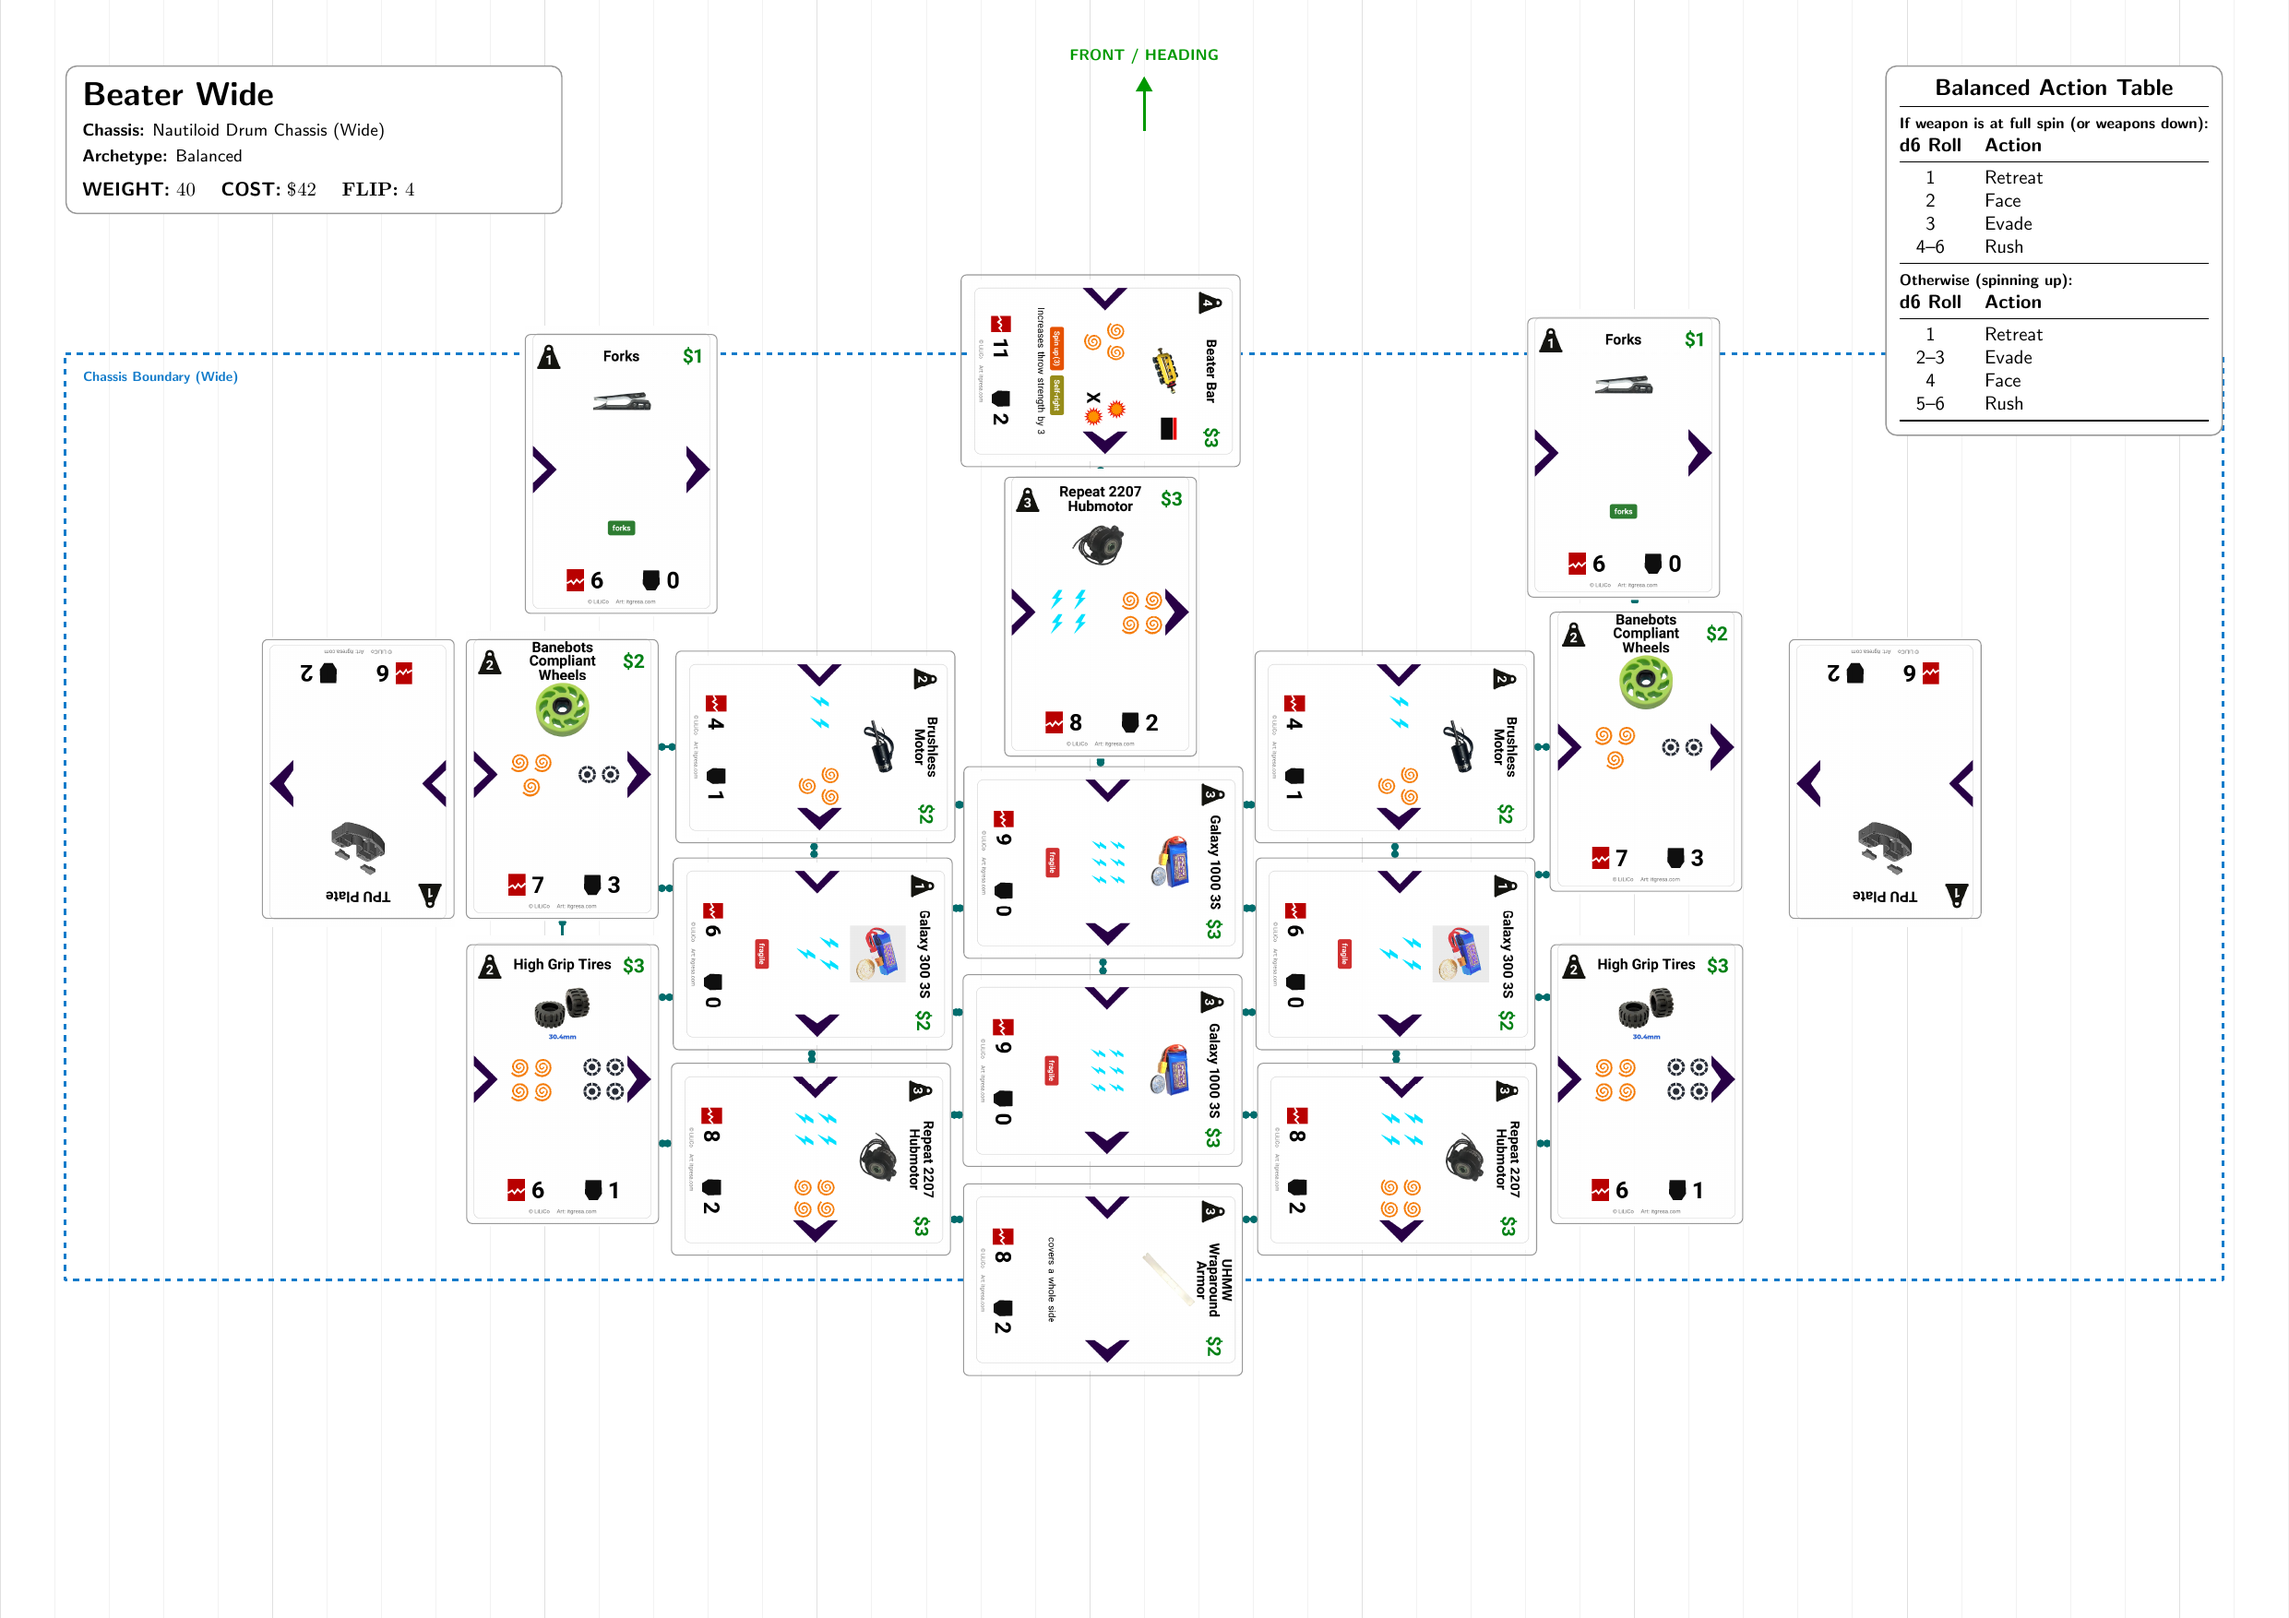
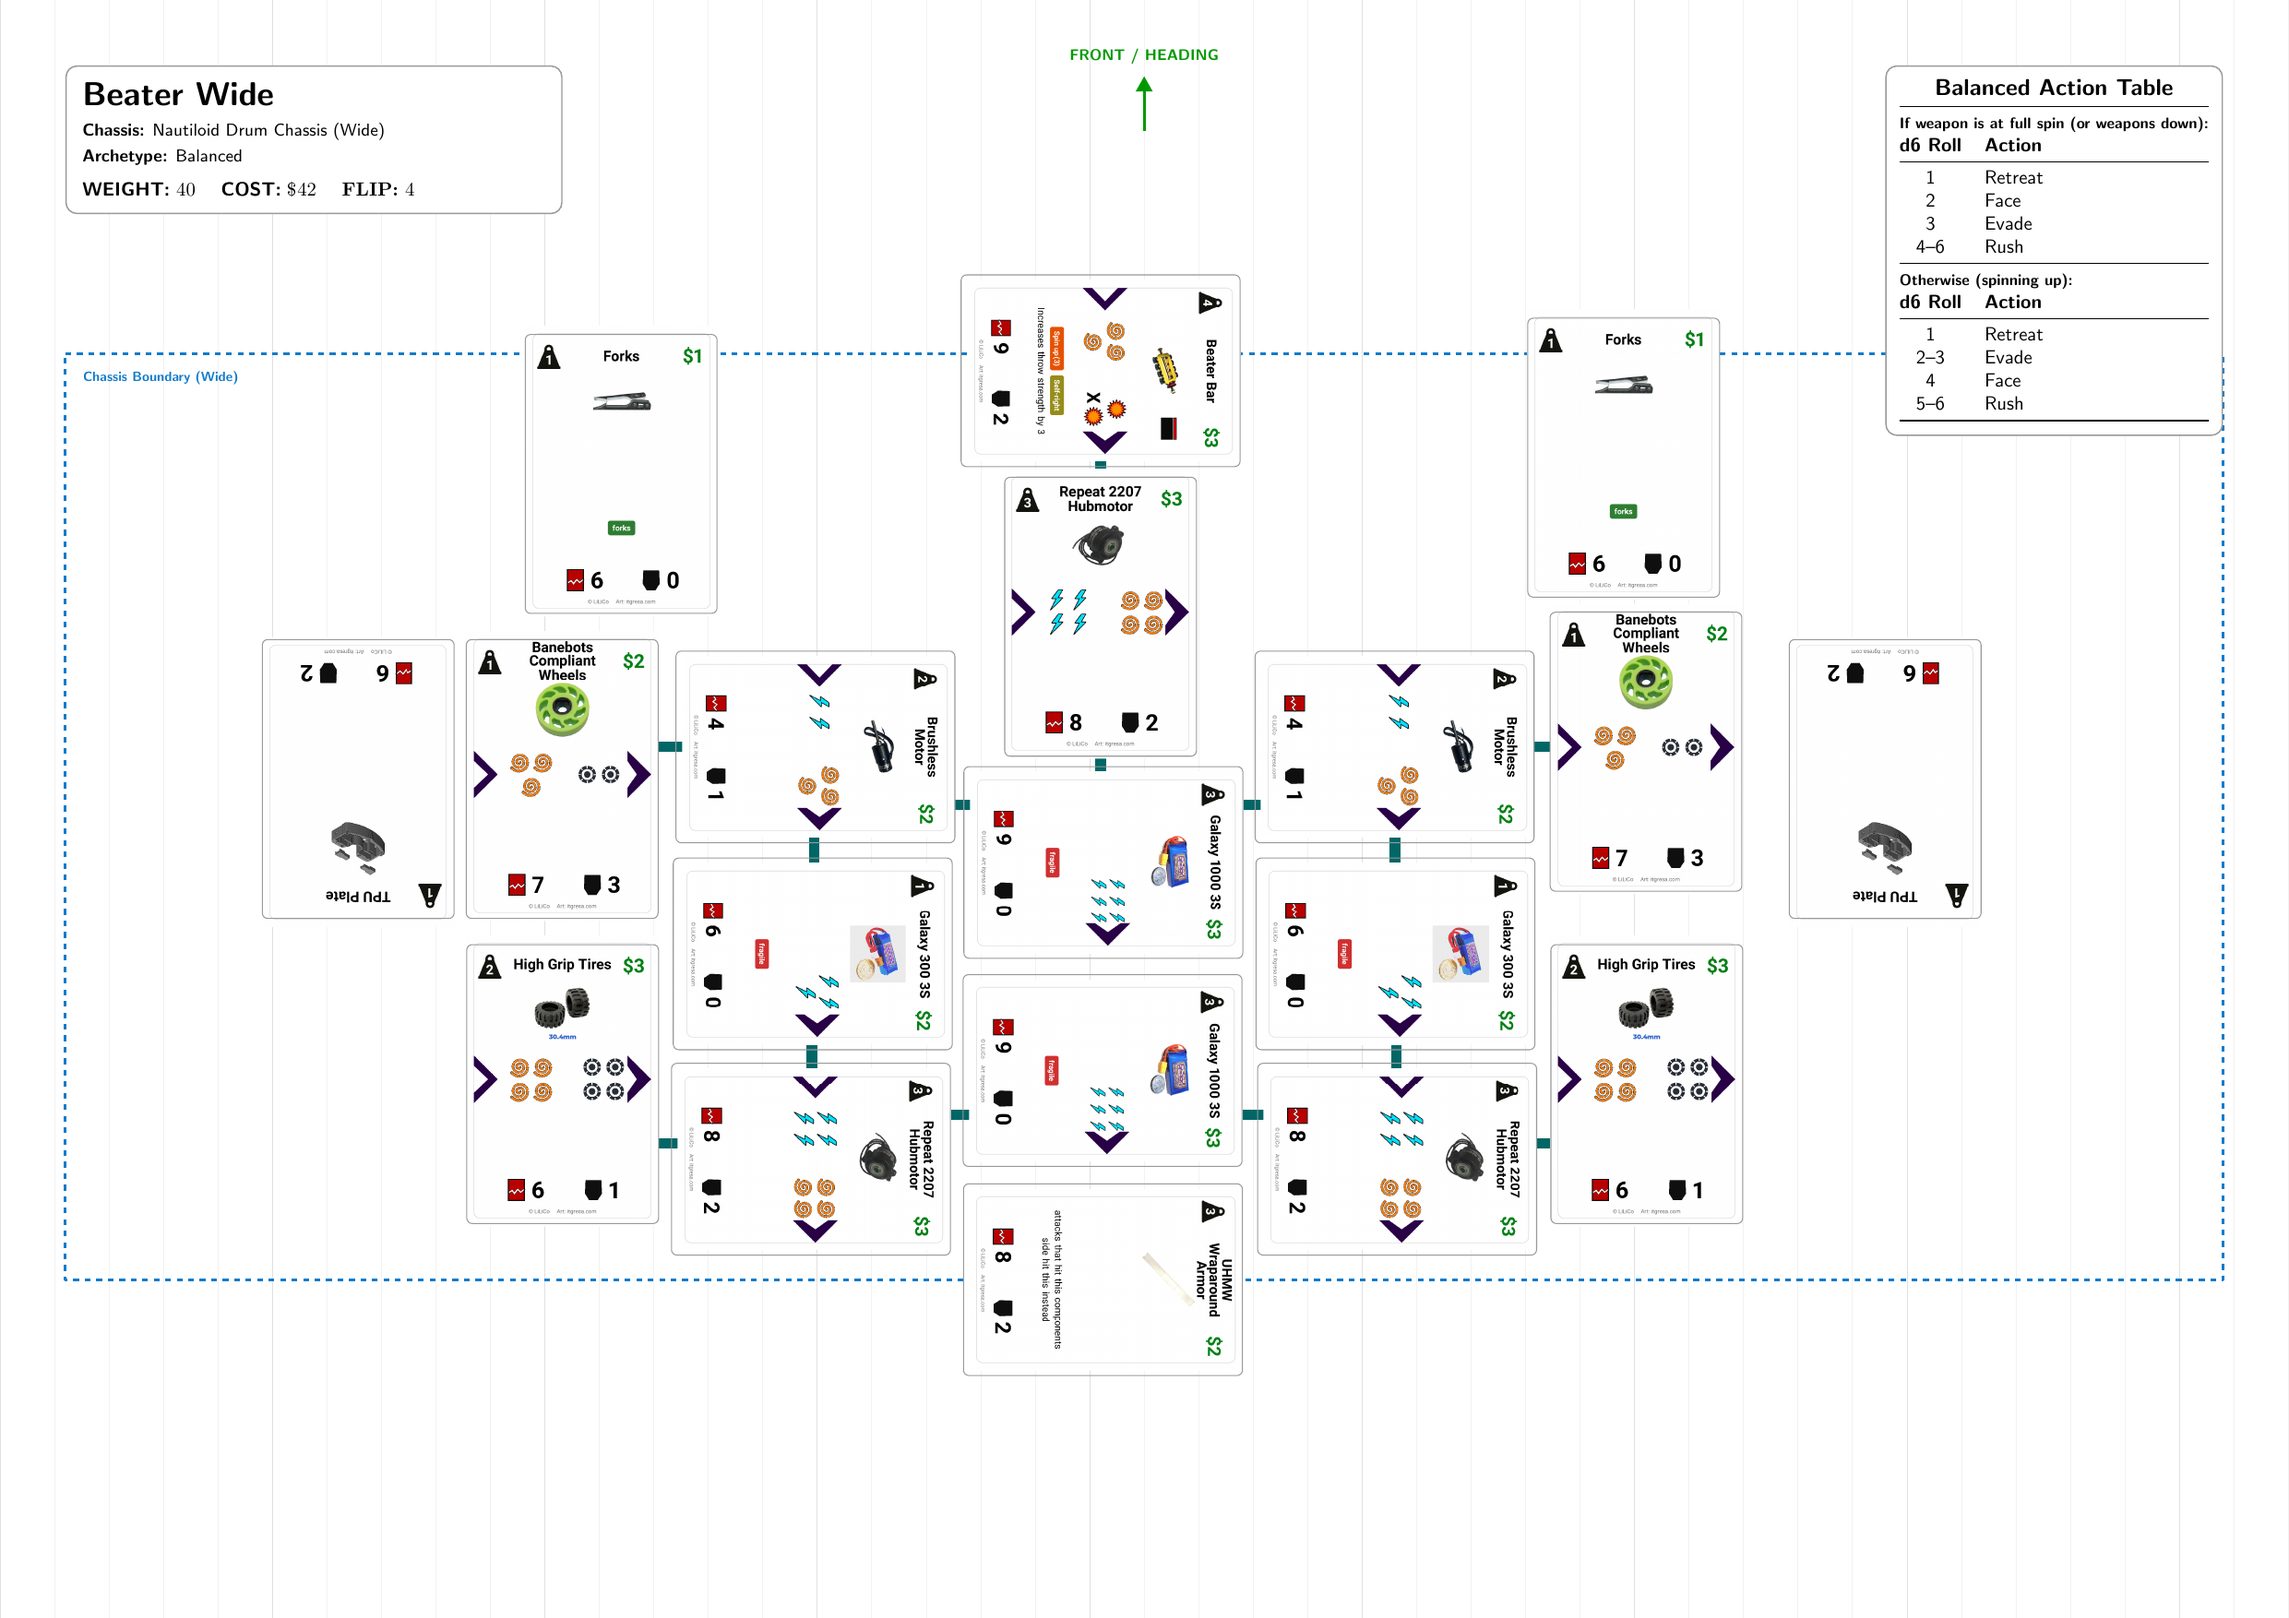
Update automata sheet connection lines to thick continuous lines between supplying components

diff --git a/tests/test_automata_sheets.py b/tests/test_automata_sheets.py
@@ -20,6 +20,7 @@ sys.path.insert(0, str(WORKSPACE_DIR))
 from scripts.generate_automata_sheets import (
     AUTOMATA_DIR,
     compile_latex_to_pdf,
+    components_supply_each_other,
     compute_connection_segment,
     extract_connected_pairs,
     generate_action_table_tex,
@@ -108,23 +109,47 @@ class TestAutomataSheets(unittest.TestCase):
                 self.assertLessEqual(b["cy"] + b["h"] / 2.0, 297.0)
 
     def test_connection_lines_generated(self):
-        """Verifies connected pairs are extracted and segments computed."""
+        """Verifies connected pairs are strictly supply links and styled as continuous thick lines."""
+        # 1. Component supply logic unit checks
+        batt = {"card": "Galaxy 120", "card_data": {"outputs": "EE", "requirements": ""}}
+        motor = {"card": "Brushless Motor", "card_data": {"outputs": "SSS", "requirements": "EE"}}
+        wheel = {"card": "Snap Wheels", "card_data": {"outputs": "D", "requirements": "SS"}}
+        armor = {"card": "TPU Plate", "card_data": {"outputs": "", "requirements": ""}}
+        servo = {"card": "20kg Metal Gear Servo", "card_data": {"outputs": "PPPP", "requirements": "EEE"}}
+        lifter = {"card": "Four-Bar Lifter", "card_data": {"outputs": "WWWWWW", "requirements": "PPPP"}}
+
+        self.assertTrue(components_supply_each_other(batt, motor))
+        self.assertTrue(components_supply_each_other(motor, wheel))
+        self.assertTrue(components_supply_each_other(servo, lifter))
+        self.assertFalse(components_supply_each_other(armor, wheel))
+        self.assertFalse(components_supply_each_other(armor, batt))
+        self.assertFalse(components_supply_each_other(batt, batt))
+
+        # 2. Extract pairs for Vyper Flipper
         b_info = process_robot_csv(AUTOMATA_DIR / "Vyper_flipper.csv")
         conns = b_info["connected_pairs"]
         self.assertGreater(len(conns), 0)
 
         box_map = {b["id"]: b for b in b_info["resolved_boxes"]}
-        computed_segs = 0
-        for id_a, id_b in conns:
-            b1 = box_map.get(id_a)
-            b2 = box_map.get(id_b)
-            if b1 and b2:
-                x1, y1, x2, y2 = compute_connection_segment(b1, b2)
-                seg_len = ((x2 - x1) ** 2 + (y2 - y1) ** 2) ** 0.5
-                if seg_len > 0.1:
-                    computed_segs += 1
+        card_names = {b["id"]: b["card"] for b in b_info["resolved_boxes"]}
 
-        self.assertGreater(computed_segs, 0)
+        # Armor and wedges should never be connected
+        for id_a, id_b in conns:
+            name_a = card_names.get(id_a, "")
+            name_b = card_names.get(id_b, "")
+            self.assertNotIn("Wedge", name_a)
+            self.assertNotIn("Wedge", name_b)
+            self.assertNotIn("Plate", name_a)
+            self.assertNotIn("Plate", name_b)
+            self.assertNotIn("Armor", name_a)
+            self.assertNotIn("Armor", name_b)
+
+        # 3. TikZ styling check
+        page_tikz = generate_robot_page_tikz(b_info)
+        conn_section = page_tikz.split("% Component Edge Connections")[1].split("% Robot Component Cards")[0]
+        self.assertIn(r"\draw[line width=5.5pt, teal!80!black, line cap=round]", conn_section)
+        self.assertNotIn("Circle", conn_section)
+        self.assertNotIn("dashed", conn_section)
 
     def test_single_bot_pdf_compilation(self):
         """Verifies end-to-end PDF generation for one bot."""

diff --git a/scripts/generate_automata_sheets.py b/scripts/generate_automata_sheets.py
@@ -329,10 +329,41 @@ def resolve_layout(
 # Component Connection Line Computation
 # ---------------------------------------------------------------------------
 
-def extract_connected_pairs(placed: List[Dict[str, Any]], raw_rows: List[Dict[str, Any]]) -> Set[Tuple[str, str]]:
+SUPPLY_RESOURCES: Set[str] = {"E", "S", "P", "D", "M"}
+
+
+def components_supply_each_other(
+    card_a: Dict[str, Any],
+    card_b: Dict[str, Any],
+    by_name: Optional[Dict[str, Any]] = None,
+) -> bool:
+    """
+    Returns True if component A can supply component B or component B can supply component A.
+    Checks whether outputs of one component provide supply resources ('E', 'S', 'P', 'D', 'M')
+    required by the other.
+    """
+    name_a = card_a.get("card") or card_a.get("name", "")
+    name_b = card_b.get("card") or card_b.get("name", "")
+    data_a = card_a.get("card_data") or (by_name.get(name_a) if by_name else {}) or {}
+    data_b = card_b.get("card_data") or (by_name.get(name_b) if by_name else {}) or {}
+
+    outs_a = set(str(data_a.get("outputs", "")).upper()) & SUPPLY_RESOURCES
+    reqs_a = set(str(data_a.get("requirements", "")).upper()) & SUPPLY_RESOURCES
+    outs_b = set(str(data_b.get("outputs", "")).upper()) & SUPPLY_RESOURCES
+    reqs_b = set(str(data_b.get("requirements", "")).upper()) & SUPPLY_RESOURCES
+
+    return bool((outs_a & reqs_b) or (outs_b & reqs_a))
+
+
+def extract_connected_pairs(
+    placed: List[Dict[str, Any]],
+    raw_rows: List[Dict[str, Any]],
+    supply_only: bool = True,
+) -> Set[Tuple[str, str]]:
     """
     Identifies all pairs of placed cards that are physically adjacent or
-    connected in the robot definition.
+    connected in the robot definition, filtered to components that supply
+    one another if supply_only is True.
     """
     pairs: Set[Tuple[str, str]] = set()
 
@@ -370,6 +401,13 @@ def extract_connected_pairs(placed: List[Dict[str, Any]], raw_rows: List[Dict[st
         for i in range(len(m_list)):
             for j in range(i + 1, len(m_list)):
                 pairs.add(tuple(sorted([m_list[i], m_list[j]])))
+
+    if supply_only:
+        card_map = {str(c.get("id")): c for c in placed}
+        pairs = {
+            p for p in pairs
+            if p[0] in card_map and p[1] in card_map and components_supply_each_other(card_map[p[0]], card_map[p[1]])
+        }
 
     return pairs
 
@@ -554,9 +592,15 @@ def generate_robot_page_tikz(bot_info: Dict[str, Any], scale: float = 0.80, min_
         if not (is_ortho and seg_len <= 8.5 or (not is_ortho and seg_len <= 4.0)):
             continue
 
+        # Extend line segment by 1.0mm under adjacent card borders so there is no gap
+        dx = (x2 - x1) / seg_len
+        dy = (y2 - y1) / seg_len
+        ex1, ey1 = x1 - dx * 1.0, y1 - dy * 1.0
+        ex2, ey2 = x2 + dx * 1.0, y2 + dy * 1.0
+
         lines.append(
-            rf"  \draw[line width=1.5pt, teal!85!black, {{Circle[length=1.4mm]}}-{{Circle[length=1.4mm]}}] "
-            rf"({x1:.2f}, {y1:.2f}) -- ({x2:.2f}, {y2:.2f});"
+            rf"  \draw[line width=5.5pt, teal!80!black, line cap=round] "
+            rf"({ex1:.2f}, {ey1:.2f}) -- ({ex2:.2f}, {ey2:.2f});"
         )
 
     # 7. Card Nodes
